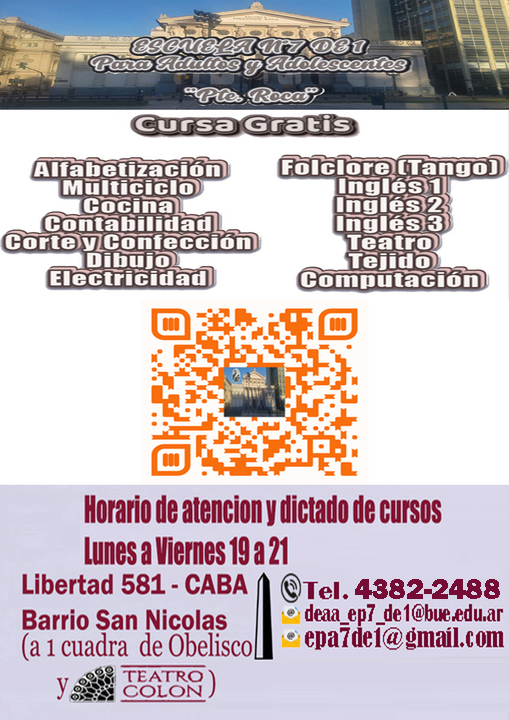
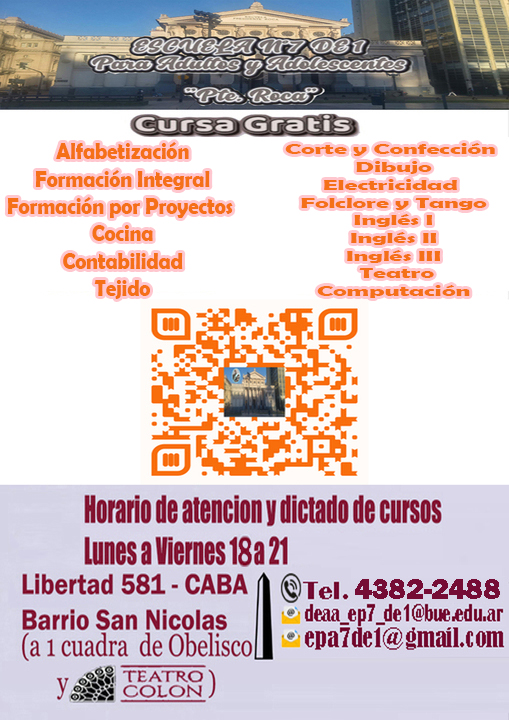
no message

Changed region(s): [[0.0, 0.1833, 0.5305, 0.4278], [0.5305, 0.1833, 1.0, 0.4278], [0.4715, 0.7333, 0.501, 0.7944]]

diff --git a/docs/cursos.html b/docs/cursos.html
@@ -346,8 +346,8 @@
 					<div class="card hover01">
 						<figure><img class="card-img-top" src="images/curso_2.jpg" alt=""></figure>
 						<div class="card-body text-center">
-							<div class="card-title"><a href="cursos.html">Multiciclo</a></div>
-							<div class="card-text">Ciclos Primarios</div>
+							<div class="card-title"><a href="cursos.html">Formacion Integral</a></div>
+							<div class="card-text"></div>
 						</div>
 						<div class="price_box d-flex flex-row align-items-center">
 							<div class="course_author_image">
